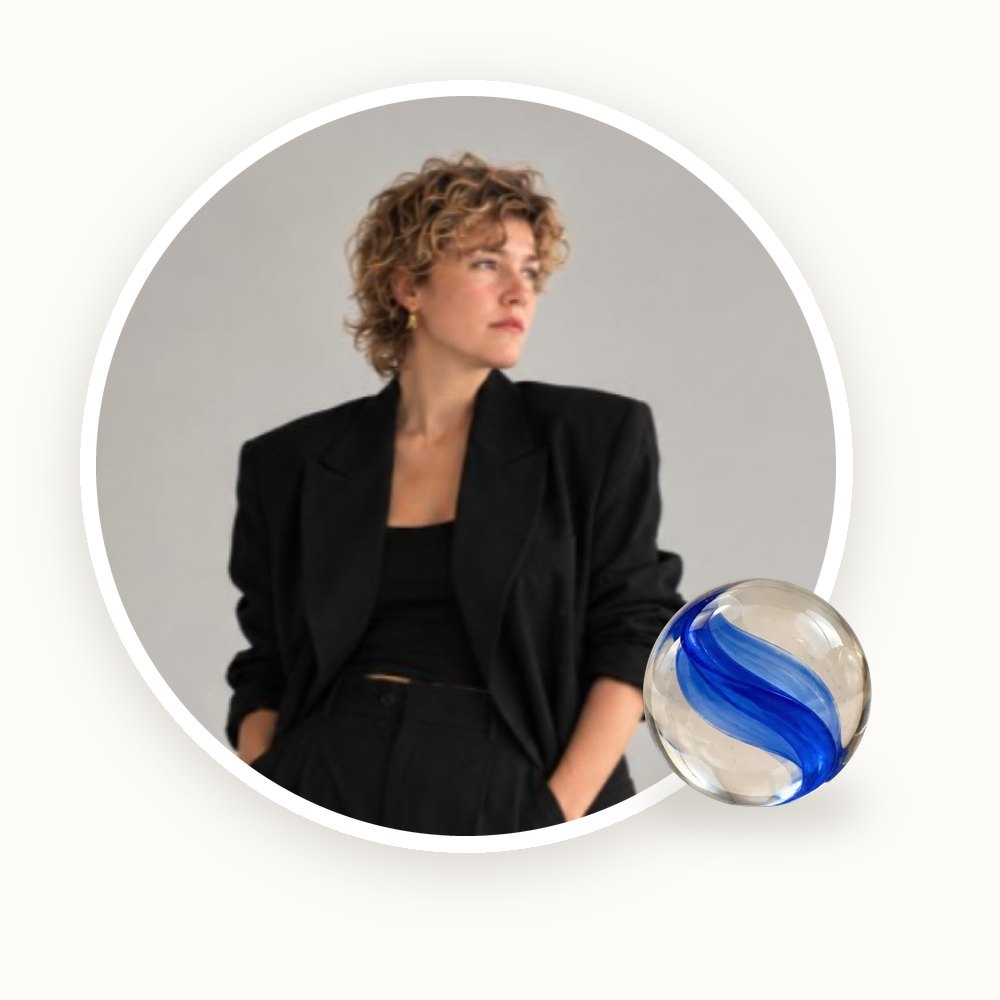
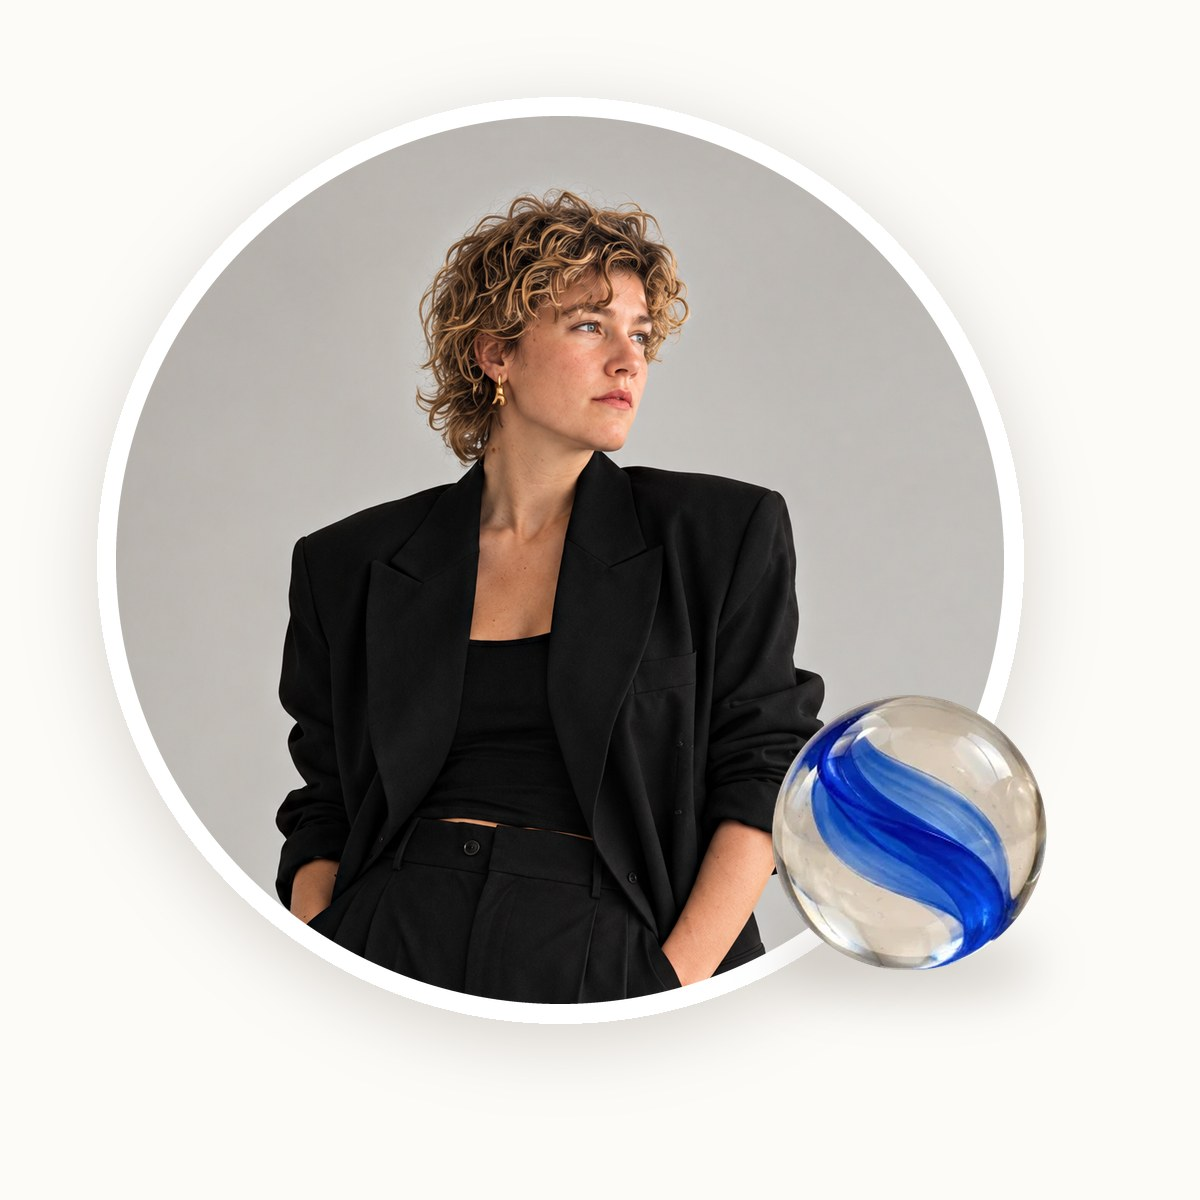
Publish the idea map (idea-map-site 67e195f)

diff --git a/index.html b/index.html
@@ -1,1 +1,1 @@
-<!doctype html><html lang="en"><head><meta charset="utf-8"><meta name="viewport" content="width=device-width, initial-scale=1"><meta name="theme-color" content="#faf8f5"><title>Mareike Jens · Navigating Transformative AI</title><meta name="description" content="Which marbles would you pick? Fill a jar with the AI ideas you’d like to discuss over coffee."><meta property="og:type" content="website"><meta property="og:url" content="https://mareikejens.com/"><meta property="og:site_name" content="Mareike Jens"><meta property="og:title" content="Mareike Jens · Navigating Transformative AI"><meta property="og:description" content="Which marbles would you pick? Fill a jar with the AI ideas you’d like to discuss over coffee."><meta property="og:image" content="https://mareikejens.com/assets/og-square.jpg?v=1"><meta property="og:image:width" content="1000"><meta property="og:image:height" content="1000"><meta property="og:image:alt" content="Portrait of Mareike Jens with a blue glass marble"><meta name="twitter:card" content="summary_large_image"><meta name="twitter:image" content="https://mareikejens.com/assets/og-image.jpg?v=6"><meta name="twitter:image:alt" content="Mareike Jens: Hi, I’m Mareike. About to lose my marbles."><link rel="icon" href="/favicon.ico?v=2" sizes="48x48"><link rel="icon" type="image/png" sizes="32x32" href="/favicon-32x32.png?v=2"><link rel="icon" type="image/png" sizes="16x16" href="/favicon-16x16.png?v=2"><link rel="icon" type="image/png" sizes="512x512" href="/icon-512.png?v=2"><link rel="apple-touch-icon" href="/apple-touch-icon.png?v=2"><link rel="stylesheet" href="style.css"><link rel="stylesheet" href="play.css"><script defer src="content.js"></script><script defer src="explosion.js"></script><script defer src="motion.js"></script><script defer src="vendor/matter.min.js"></script><script defer src="track.js"></script><script defer src="jar.js"></script><script defer src="play.js"></script><script defer src="app.js"></script></head><body class="cover"><header class="mast"><button class="face" type="button" data-about><img src="assets/mareike.jpg" alt="Mareike Jens"></button><button class="mast-title" type="button" data-about><span id="siteTitle"></span></button><nav class="mast-tools" id="mastTools"></nav></header><main id="app"></main><dialog id="sheet"><button class="x"></button><section id="detail"></section></dialog></body></html>
+<!doctype html><html lang="en"><head><meta charset="utf-8"><meta name="viewport" content="width=device-width, initial-scale=1"><meta name="theme-color" content="#faf8f5"><title>Mareike Jens · Navigating Transformative AI</title><meta name="description" content="Which marbles would you pick? Fill a jar with the AI ideas you’d like to discuss over coffee."><meta property="og:type" content="website"><meta property="og:url" content="https://mareikejens.com/"><meta property="og:site_name" content="Mareike Jens"><meta property="og:title" content="Mareike Jens · Navigating Transformative AI"><meta property="og:description" content="Which marbles would you pick? Fill a jar with the AI ideas you’d like to discuss over coffee."><meta property="og:image" content="https://mareikejens.com/assets/og-square.jpg?v=2"><meta property="og:image:width" content="1200"><meta property="og:image:height" content="1200"><meta property="og:image:alt" content="Portrait of Mareike Jens with a blue glass marble"><meta name="twitter:card" content="summary_large_image"><meta name="twitter:image" content="https://mareikejens.com/assets/og-image.jpg?v=6"><meta name="twitter:image:alt" content="Mareike Jens: Hi, I’m Mareike. About to lose my marbles."><link rel="icon" href="/favicon.ico?v=2" sizes="48x48"><link rel="icon" type="image/png" sizes="32x32" href="/favicon-32x32.png?v=2"><link rel="icon" type="image/png" sizes="16x16" href="/favicon-16x16.png?v=2"><link rel="icon" type="image/png" sizes="512x512" href="/icon-512.png?v=2"><link rel="apple-touch-icon" href="/apple-touch-icon.png?v=2"><link rel="stylesheet" href="style.css"><link rel="stylesheet" href="play.css"><script defer src="content.js"></script><script defer src="explosion.js"></script><script defer src="motion.js"></script><script defer src="vendor/matter.min.js"></script><script defer src="track.js"></script><script defer src="jar.js"></script><script defer src="play.js"></script><script defer src="app.js"></script></head><body class="cover"><header class="mast"><button class="face" type="button" data-about><img src="assets/mareike.jpg" alt="Mareike Jens"></button><button class="mast-title" type="button" data-about><span id="siteTitle"></span></button><nav class="mast-tools" id="mastTools"></nav></header><main id="app"></main><dialog id="sheet"><button class="x"></button><section id="detail"></section></dialog></body></html>
